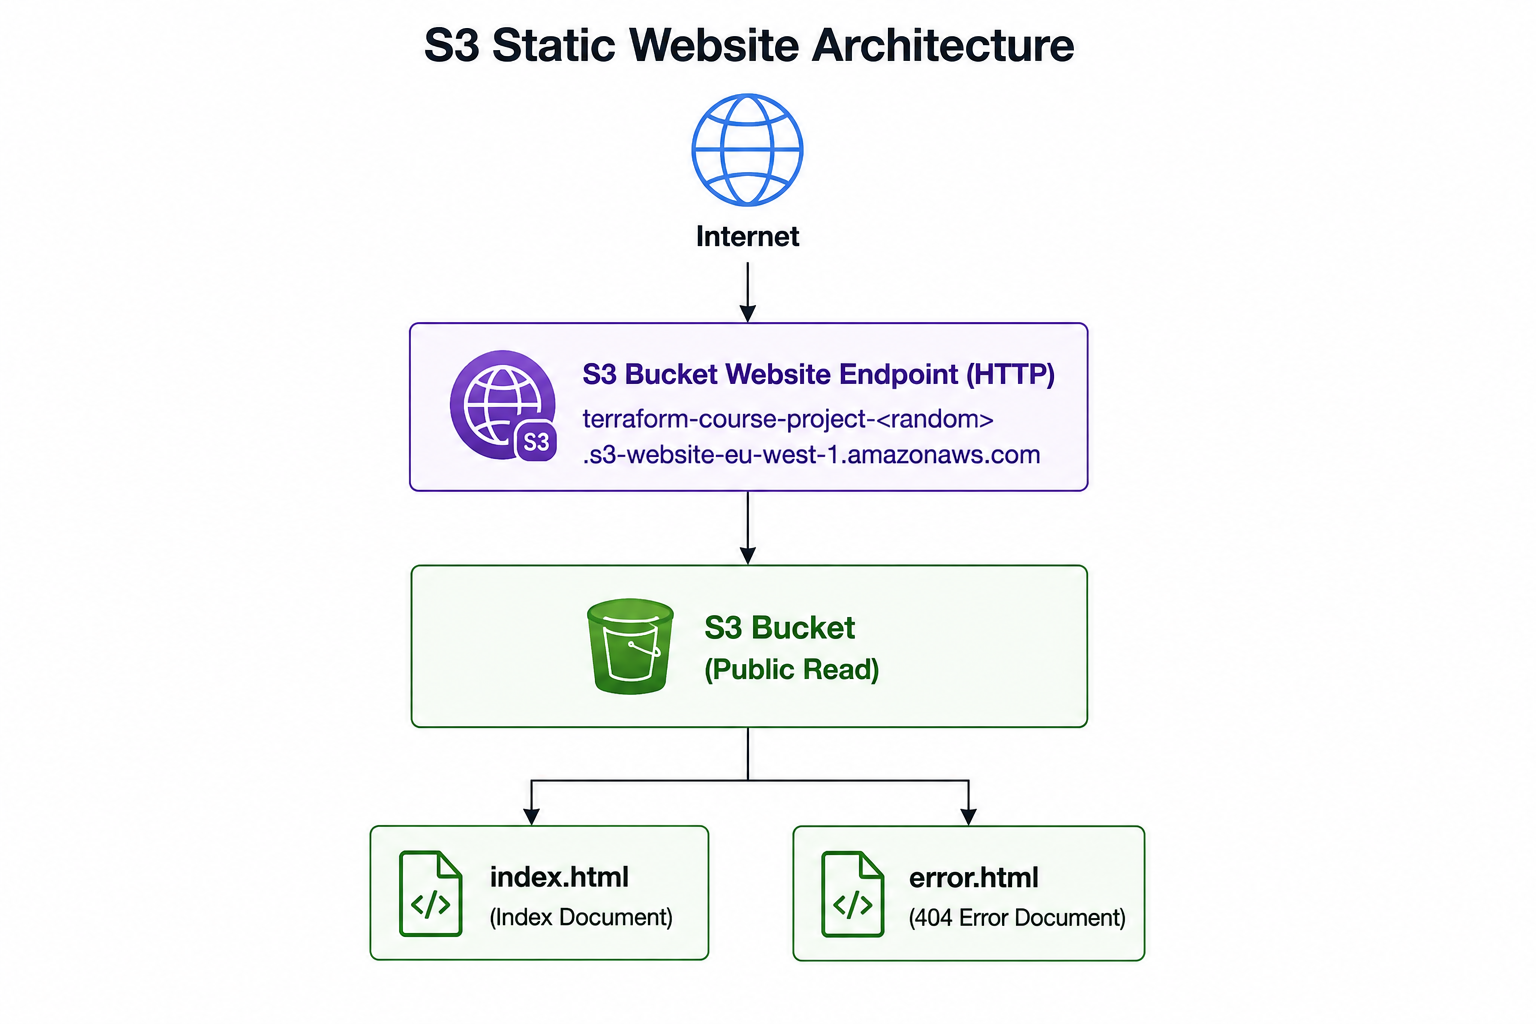
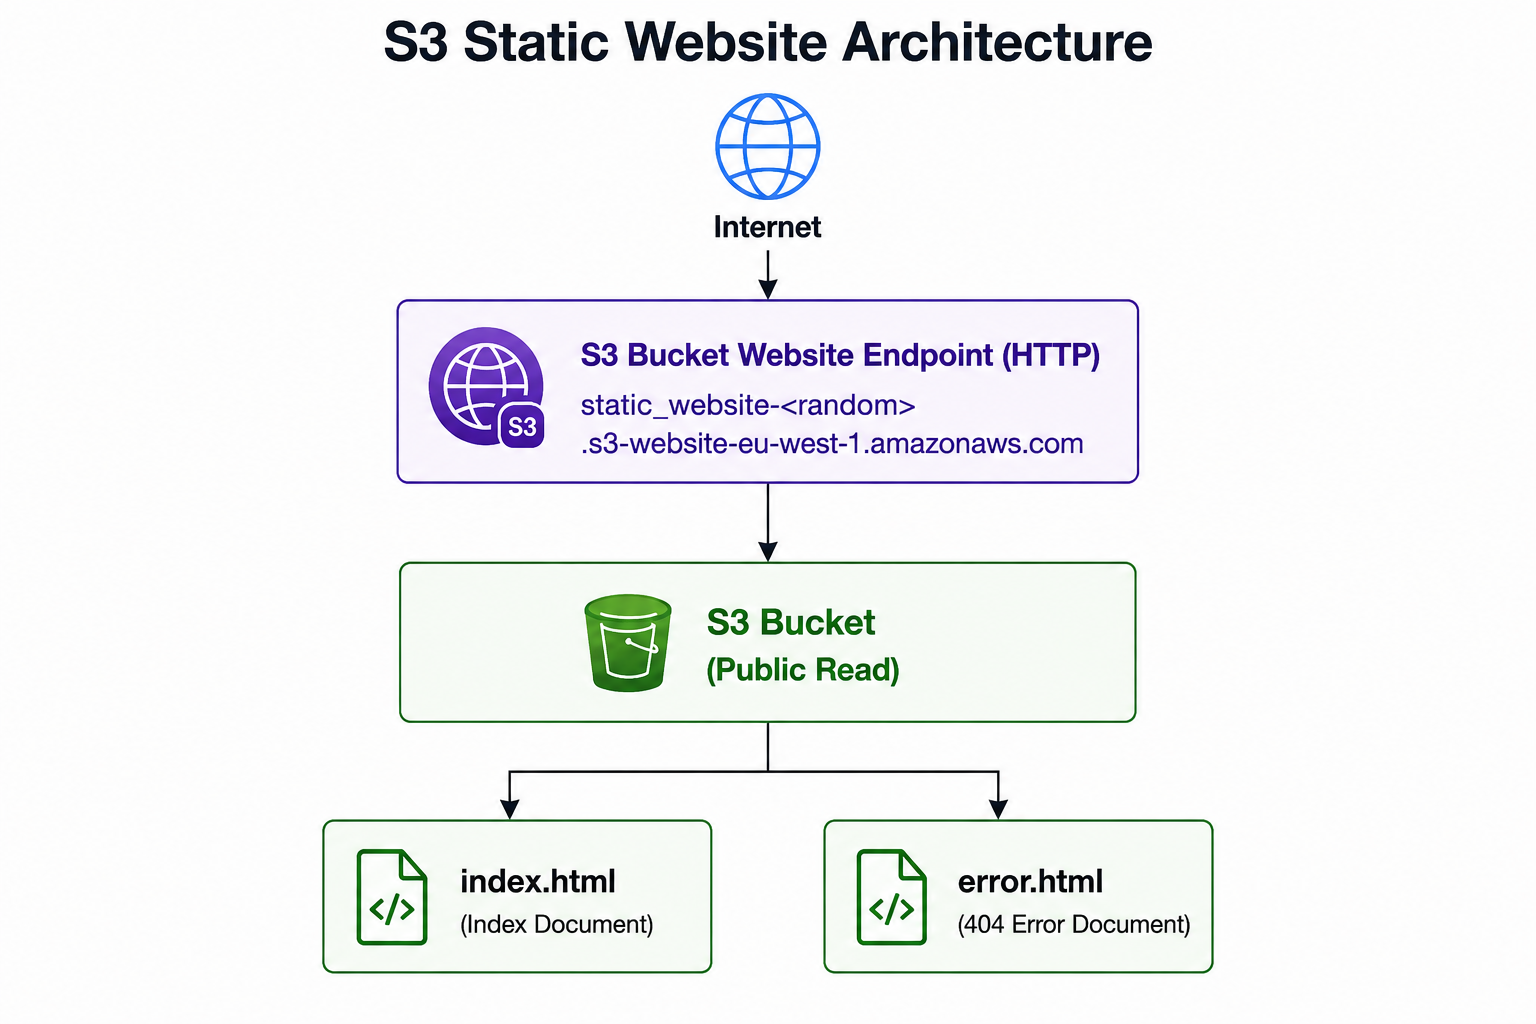
Added More Screenshots

Changed region(s): [[0.2188, 0.0938, 0.7812, 0.9688], [0.25, 0.0, 0.75, 0.0625], [0.7188, 0.2812, 0.75, 0.3125]]

diff --git a/03-infrastructure-as-code/02-terraform-s3-static-website/README.md b/03-infrastructure-as-code/02-terraform-s3-static-website/README.md
@@ -12,7 +12,7 @@ and uploads the site files in one apply.
                         │
                         ▼
         S3 bucket website endpoint (HTTP)
-   terraform-course-project-<random>.s3-website-eu-west-1.amazonaws.com
+   static_website-<random>.s3-website-eu-west-1.amazonaws.com
                         │
                         ▼
               S3 bucket (public read)
